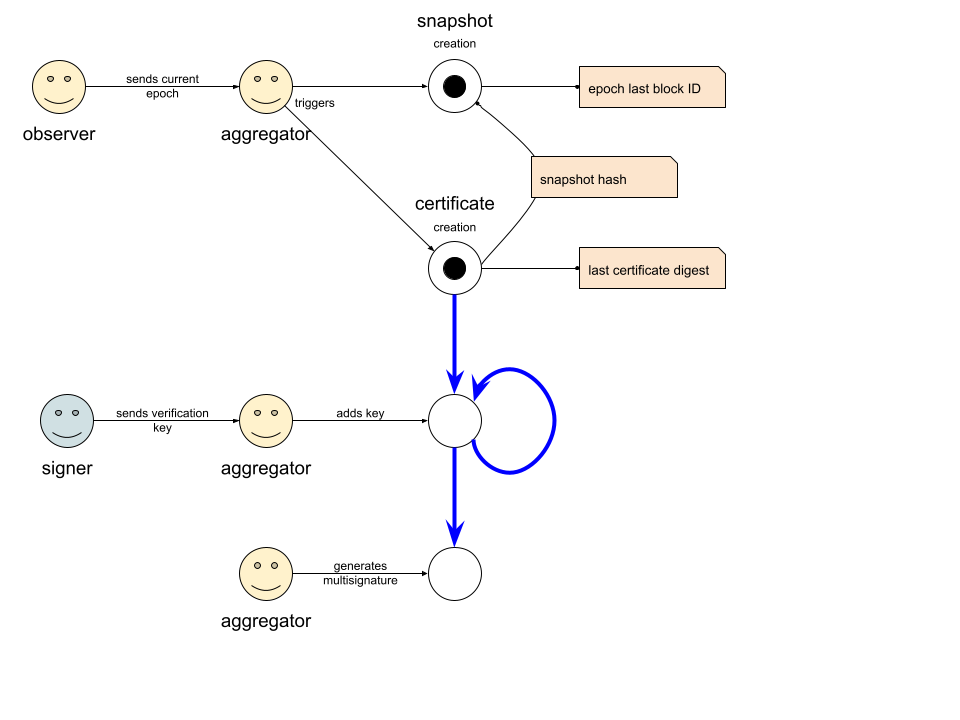
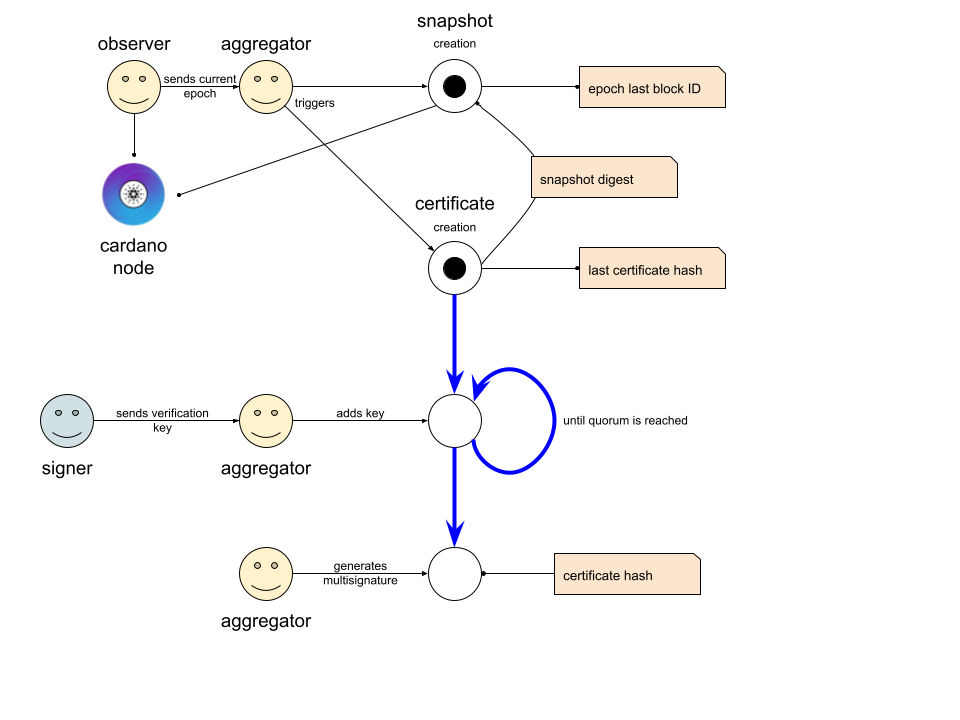
fix schema, complete glossary

diff --git a/docs/root/glossary.md b/docs/root/glossary.md
@@ -8,15 +8,23 @@ Here is a comprehensive list of terms'definition used in the project.
 
 ## Aggregator
 
-An Aggregator is a software instance that computes, checks the [Mithril Signatures](#mithril-signature) and issues the [Snapshots](#snapshot) along with their [Digest](#snapshot-digest).
+An Aggregator is a software instance that computes, checks the [mithril signatures](#mithril-signature) and issues the [snapshots](#snapshot) along with their [digest](#snapshot-digest).
 
 ## Beacon
 
-A Beacon is a software data structure that holds parameters tied to a given [Epoch](#epoch).
+A Beacon is a software data structure that holds parameters tied to a given [epoch](#epoch).
+
+## Certificate
+
+See [mithril signature](#mithril-signature).
 
 ## Client
 
-A client is a software ran by a Wallet owner or anyone who needs to compute the [ledger state](#ledger-state). Clients use Mithril to ensure the snapshots they download is certified to be the official one.
+A client is a software ran by a Wallet owner or anyone who needs to compute the [ledger state](#ledger-state). Clients use Mithril to ensure the snapshot they download is certified by a randomly distributed population to be the official one.
+
+## Digest
+
+See [snapshot digest](#snapshot-digest).
 
 ## Epoch
 
@@ -32,23 +40,31 @@ The Ledger State represents all the wallets'balances according to the transactio
 
 ## Mithril Signature
 
-A Mithril Signature is a unique signature computed from multiple [Signers](#signer)'s signatures depending on a common shared message (the [Snapshot Digest](#snapshot-digest)).
+A Mithril Signature is a unique signature computed from a random distributed population of [signers](#signer)'s signatures depending on a common shared message.
+
+## Party
+
+A party is a person or something represented by a key pair on the Cardano network and who is involved in a [mithril signature](#mithril-signature).
 
 ## Signer
 
-A Signer is a software that acts as a party in [Mithril Signatures](#mithril-signature). As such it uses someone's stake to participate to internal Mithril gambling process.
+A Signer is a software that acts as a party in [mithril signatures](#mithril-signature). As such it uses the [party](#party)'s stake to participate to internal Mithril gambling process.
 
 ## Signer Verification Key
 
-A Signer Verification Key is a key computed from a [Signer](#signer)'s private key to assess his identity in the [Mithril Signature](#mithril-signature).
+A Signer Verification Key is a key computed from a [Party](#party)'s private key to assess his identity in the [Mithril Signature](#mithril-signature).
 
 ## Snapshot
 
-A Mithril Snapshot is a signed archive of the Blockchain that can be used by Clients to restore the [Ledger State](#ledger-state) quicker than computing it from scratch.
+A Mithril Snapshot is a signed archive of the Blockchain that can be used by [Clients](#client) to restore the [Ledger State](#ledger-state) quicker than computing it from scratch.
+
+## Snapshot Certificate
+
+The snapshot certificate is a [mithril signature](#mithril-signature) of the [snapshot digest](#snapshot-digest) that ensures its authenticity to all [clients](#clients) who want to use it.
 
 ## Snapshot Digest
 
-A Snapshot digest is a unique control sum (hash) associated to a [Snapshot](#snapshot). It can be used to assert a [Snapshot](#snapshot) is valid or can be signed to certify the according [Snapshot](#snapshot)'s provenance.
+A snapshot digest (or simply, Digest) is a unique control sum (hash) associated to a [Snapshot](#snapshot). It can be used to assert a [Snapshot](#snapshot) is valid or can be signed to certify the according [Snapshot](#snapshot)'s provenance.
 
 ## Stake Distribution
 

diff --git a/docs/README.md b/docs/README.md
@@ -5,13 +5,13 @@ This website is built using [Docusaurus 2](https://docusaurus.io/), a modern sta
 ### Installation
 
 ```
-$ yarn
+$ npx docusaurus install
 ```
 
 ### Local Development
 
 ```
-$ yarn start
+$ npx docusaurus start
 ```
 
 This command starts a local development server and opens up a browser window. Most changes are reflected live without
@@ -20,7 +20,7 @@ having to restart the server.
 ### Build
 
 ```
-$ yarn build
+$ npx docusaurus build
 ```
 
 This command generates static content into the `build` directory and can be served using any static contents hosting
@@ -31,13 +31,13 @@ service.
 Using SSH:
 
 ```
-$ USE_SSH=true yarn deploy
+$ USE_SSH=true npx docusaurus deploy
 ```
 
 Not using SSH:
 
 ```
-$ GIT_USER=<Your GitHub username> yarn deploy
+$ GIT_USER=<Your GitHub username> npx docusaurus deploy
 ```
 
 If you are using GitHub pages for hosting, this command is a convenient way to build the website and push to
